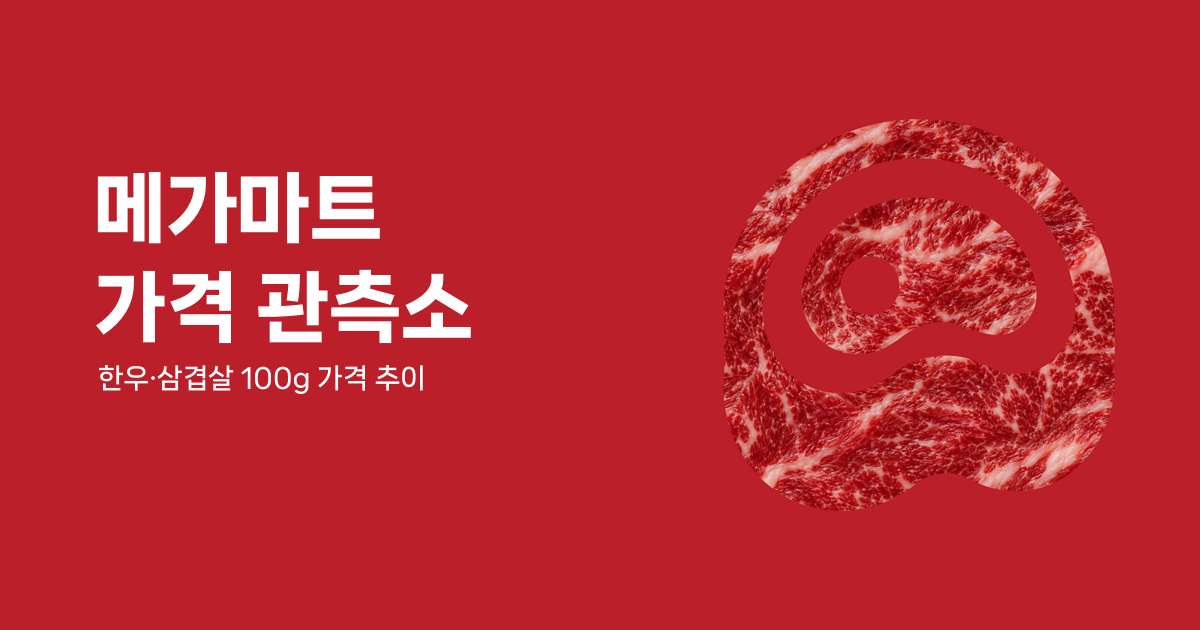
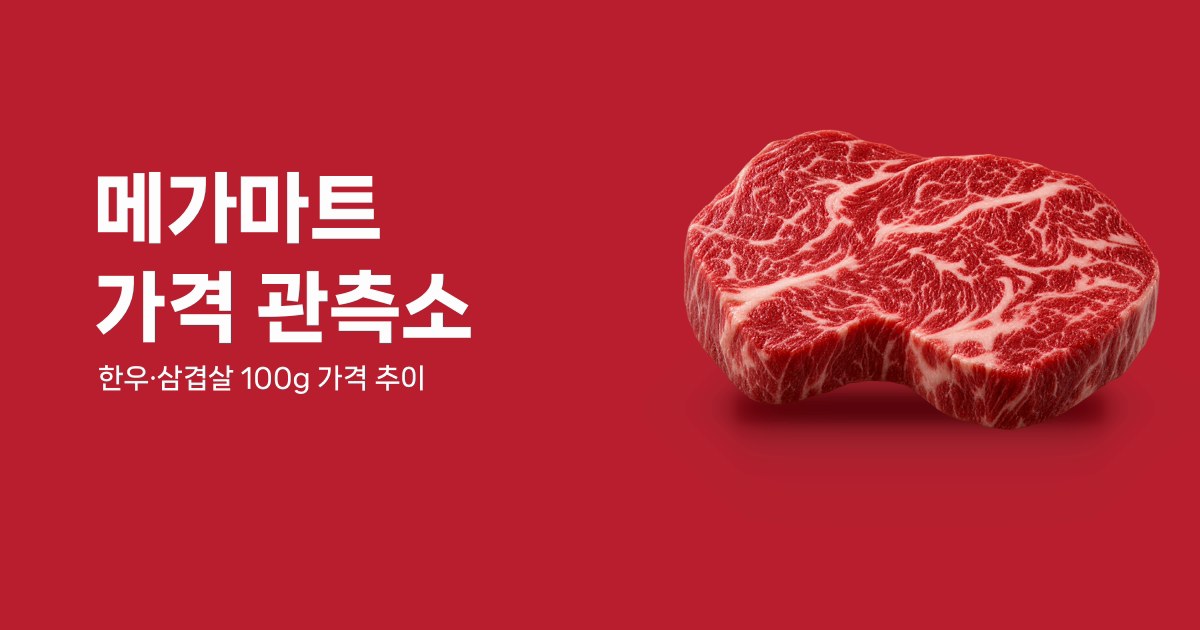
design: replace hollow meat mark with dimensional cut

diff --git a/index.html b/index.html
@@ -24,7 +24,7 @@
     <meta name="twitter:title" content="메가마트 가격 관측소" />
     <meta name="twitter:description" content="한우 등심과 삼겹살의 100g당 가격 추이를 한눈에 비교하세요." />
     <meta name="twitter:image" content="https://pyw31337.github.io/meat/og-meat.png" />
-    <link rel="icon" type="image/svg+xml" href="./meat-object.svg" />
+    <link rel="icon" type="image/png" sizes="192x192" href="./favicon-object.png" />
     <link rel="apple-touch-icon" sizes="180x180" href="./apple-touch-icon.png" />
     <link rel="manifest" href="./manifest.webmanifest" />
     <title>메가마트 가격 관측소</title>

diff --git a/public/service-worker.js b/public/service-worker.js
@@ -1,5 +1,5 @@
-const CACHE_NAME = 'meat-price-watch-v2';
-const APP_SHELL = ['./', './manifest.webmanifest', './meat-object.svg', './assets/meat-marbling-texture.jpg', './favicon-object.png', './pwa-192.png', './pwa-512.png'];
+const CACHE_NAME = 'meat-price-watch-v3';
+const APP_SHELL = ['./', './manifest.webmanifest', './favicon-object.png', './pwa-192.png', './pwa-512.png'];
 
 self.addEventListener('install', (event) => {
   event.waitUntil(caches.open(CACHE_NAME).then((cache) => cache.addAll(APP_SHELL)).then(() => self.skipWaiting()));
